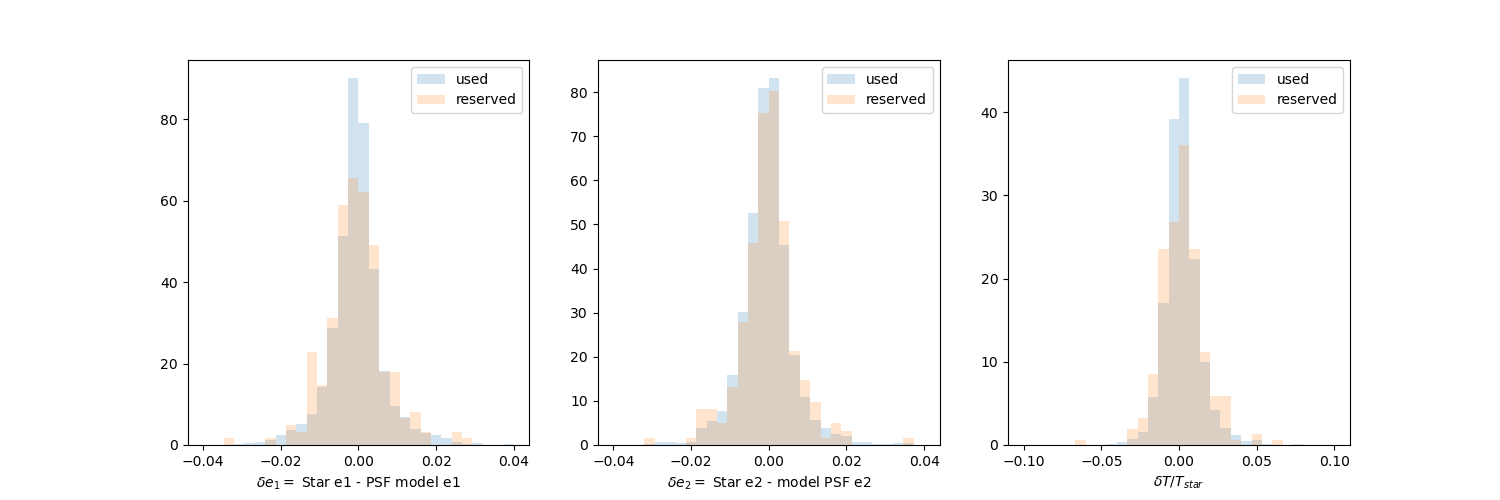
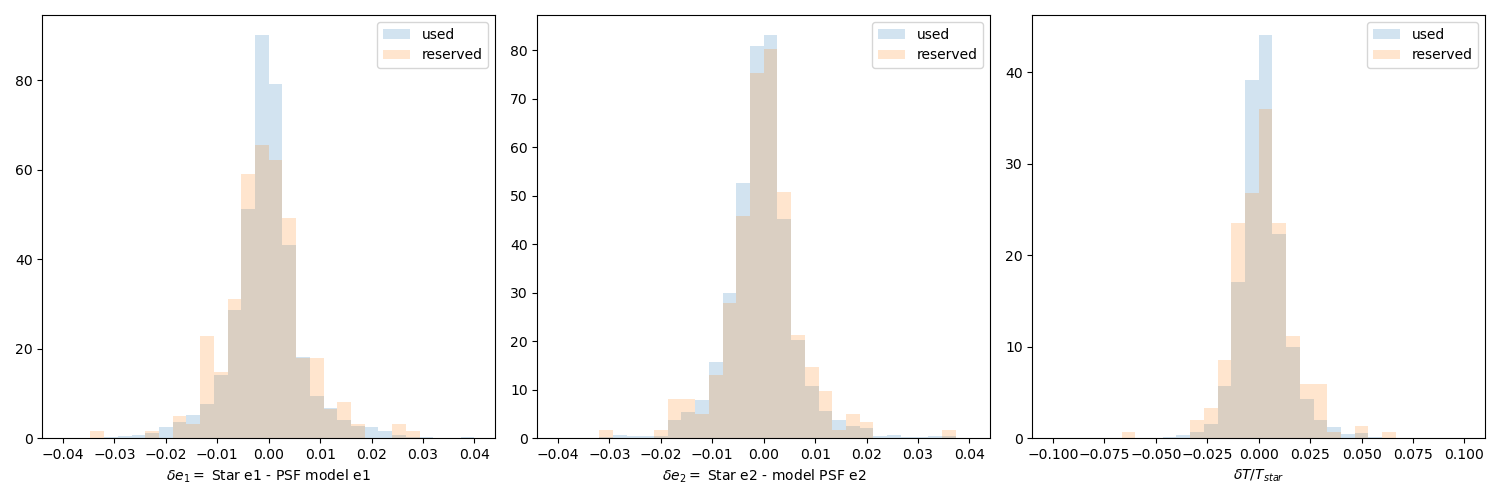
More text + updated figure

diff --git a/SITCOMTN-161.tex b/SITCOMTN-161.tex
@@ -61,7 +61,7 @@ The Rubin ComCam on-sky campaign performed at the end of 2024 provided observati
 The Rubin ComCam on-sky observing campaign (ref to SITCOMTN-149) undertaken at the end-of-year 2024 covered seven fields, among which the low ecliptic latitude Rubin SV 38 7 field. This field contains the Abell 360 (A360) galaxy cluster, an intermediate mass cluster ($M_{500,c} = 4.3\times 10^{14} \rm{M}_\odot$ from ACT DR5 SZ Cluster Catalog, ref) at z=0.22, that we use as a commissioning demonstrator of cluster WL studies with data from the Vera C. Rubin observatory. This TechNote focuses on assessing the quality of the PSF modeling in the A360 field, as performed by the Rubin Science Pipeline for the Data Preview 1 (DP1) data release (ref to DP1 paper). PSF modeling was performed using the PSFex and Piff methods (Bertin et al., Jarvis et al.); the latter has been found more accurate (ref to the PSF section of DP1 paper, ref to PSTN-049 (https://pstn-019.lsst.io/PSTN-019.pdf), ref to LSST Science pipelines Papers) and has been used for the final modeling of DP1.
 
 \section{Dataset}
-The Rubin SV 38 7 field has been observed in $g$ (44 visits), $r$ (55 visits), $i$ (57 visits) and $z$ (27 visits) (ref to DP1 paper; ref to SITCOMTN-149; ref to RTN-095). No $u$ or $y$-band data were collected in that field. The $r$ or $i$-bands are generally used for weak lensing studies (ref to DES and HSC), the bluer bands being more affected by differential chromatic refraction (ref). For the DP1 analysis of A360 we will use the $i$-band, which received the most visits in DP1, to measure the shear profile around A360 and therefore focus on the $i$-band only for the purpose of this work. All the tests performed hereafter use data from the tracts and patches overlapping with  a $1 \times 1$ square field centered on the BCG of Abell 360, at (ra,dec) = (37.86, 6.98) deg. 
+The Rubin SV 38 7 field has been observed in $g$ (44 visits), $r$ (55 visits), $i$ (57 visits) and $z$ (27 visits) (ref to DP1 paper; ref to SITCOMTN-149; ref to RTN-095). No $u$ or $y$-band data were collected in that field. The $r$ or $i$-bands are generally used for weak lensing studies (ref to DES and HSC), the bluer bands being more affected by differential chromatic refraction (ref). For the DP1 analysis of A360 we will use the $i$-band, which received the most visits in DP1, to measure the shear profile around A360 and therefore focus on the $i$-band only for the purpose of this work. All the tests performed hereafter use data from the tracts and patches overlapping with  a $1^\circ \times 1^\circ$ square field centered on the BCG of Abell 360, at (ra,dec) = (37.86, 6.98) deg. 
 
 The DP1 object table gathers all the properties of the objects (stars and galaxies) detected in the coadded images, in each band. The left panel in figure~\ref{fig:dither} shows the number of images that contributed to the coadds in the field of A360 and was obtained from the \code{i\_inputCount} information available in the object table. The dithering pattern of the observations is clearly visible.
 \begin{figure}
@@ -91,9 +91,11 @@ T = I_{xx} + I_{yy}
 \item The modulus of the ellipticity $e$ and the orientation $\theta$ of the major axis of the ellipse with respect to the x axis, given by
 \begin{equation} 
 e = \sqrt{e_1^2 + e_2^2}
+\label{eq:modulus}
 \end{equation}
 \begin{equation}
 \theta = 0.5 \times \arctan(e_2/e_1)
+\label{eq:theta}
 \end{equation}
 \end{itemize}
 
@@ -108,6 +110,17 @@ Before looking into the residuals in the next section, the right panel in Figure
 
 
 \subsection{PSF residuals - distributions and whisker plots}
+To assess the performance of the PSF model, a first test consists in comparing the normalized distribution of the residuals defined above, for the PSF and reserved stars, to check for a possible overfitting of the PSF model (DES Y6 PSF paper 2025). As can be seen in Figure~\ref{fig:residual_distrib} (left and middle panels), the ellipticity residuals peak around zero and extend to $\sim 0.02$. The right panel shows the relative residuals of the trace, peaked around zero and not exceeding beyond $\sim 5 \%$. The residuals obtained from the PSF stars and reserved stars behave similarly, not indicating any overfitting of the PSF model.
+
+\begin{figure}
+\includegraphics[width=\textwidth]{Figures/residual_histograms.png}
+\caption{Normalised distributions of the ellipticity residuals $\delta e_1$ (left), $\delta e_2$ (right), and of the relative residuals $\delta T/T$ (right). The distributions are shown for the PSF (blue) and reserved (orange) sets of stars. \label{fig:residual_distrib}}
+\end{figure}
+
+
+Figure~\ref{fig:whiskers} shows the variation of the PSF ellipticity and residuals across the field of A360. Each whisker is oriented according the direction of the ellipse major axis ($\theta$, Eq.(\ref{eq:theta})) and its length is proportional to the ellipticity modulus ($e$, Eq.(\ref{eq:modulus})); this is done for the PSF stars (top row) or reserved stars (bottom row). The left panel corresponds the measurements on the star themselves, the middle panel shows the corresponding PSF model, and the residuals are displayed in the right panel. A reference whisker is given for an ellipticity $e = 0.1$. The circle corresponds to a $0.5^\circ$  field around the cluster’s BCG, i.e., roughly the field we aim the WL measurements at. Looking at the residuals (right panel), we conclude that the PSF model perfoms satisfactorily, in particular as it is successful at correcting the coherent ellipticity patterns seen across the field.
+
+
 \begin{figure}
 \includegraphics[width=\textwidth]{Figures/whiskers_used.png}
 \includegraphics[width=\textwidth]{Figures/whiskers_reserved.png}
